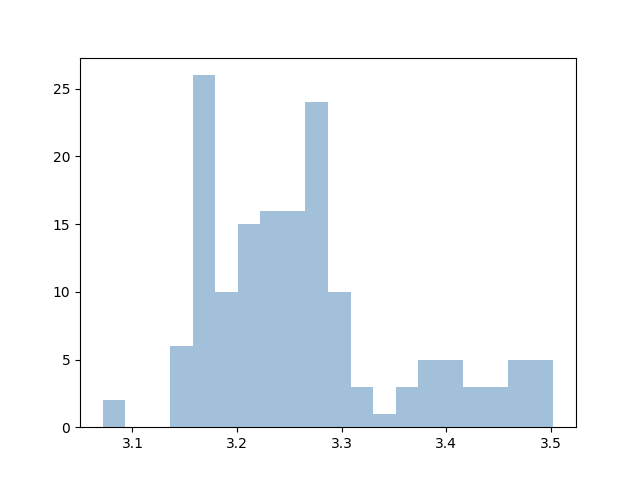
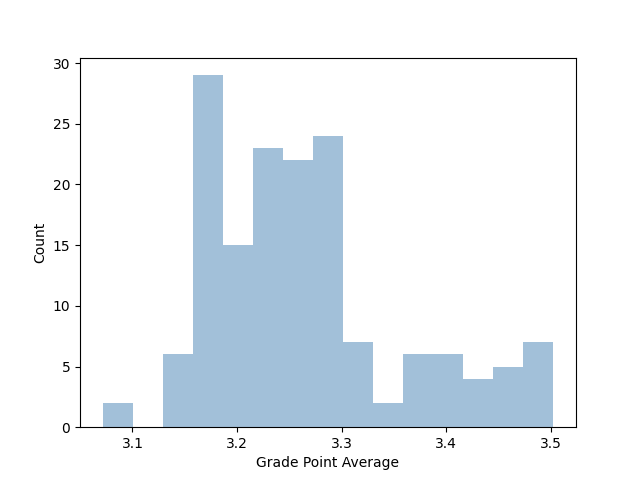
Add axis labels

diff --git a/analysis/analysis.py b/analysis/analysis.py
@@ -11,7 +11,9 @@ with open('results_sorted.csv', 'r') as csvfile:
         table.append([row[0], row[1]])
 
 x = np.array(gpas)
-plt.hist(x, histtype='stepfilled', color='steelblue', edgecolor=None, bins=20, alpha=.50)
+plt.hist(x, histtype='stepfilled', color='steelblue', edgecolor=None, bins=15, alpha=.50)
+plt.xlabel("Grade Point Average")
+plt.ylabel("Count")
 plt.show()
 
 print("Major Program | Average GPA")
